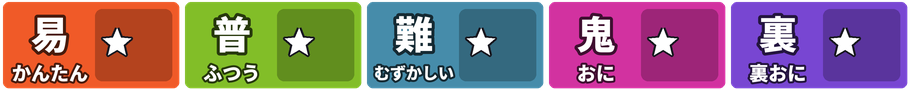
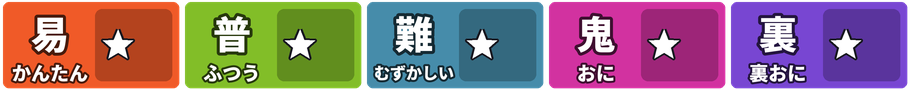
難易度の札の数字：シンプルの★と数字の高さをA-Styleに合わせる、2けたは★に重ならないように収める
Claude-Session: https://claude.ai/code/session_014XFWkjY2fybAhQzTK4VMfc

diff --git a/TakeTaikoSimulator/Scenes/SongSelect/SongSelectScene.cs b/TakeTaikoSimulator/Scenes/SongSelect/SongSelectScene.cs
@@ -2013,7 +2013,13 @@ namespace TakeTaikoSimulator.Scenes
             if (MenuSkin.Part(Tn + "Difficulty_Panel.png", new Rectangle(3 + 182 * (int)type, 2, 176, 86), chip, MenuSkin.White(alpha)))
             {
                 float k = chip.Height / 86f;
-                if (!MenuSkin.Digits(Tn + "Difficulty_Level_Number.png", level.ToString(), chip.X + ChipNumberX * k, chip.Y + ChipNumberY * k, ChipNumberAdvance, k, MenuSkin.White(alpha)))
+                // 2けた(★10 など)は、そのままだと ★ と札の右はしにはみ出すので、少し小さく・つめて ★ の右の箱に収める
+                //   11/26 たけらい「シンプルスキンとa-styleの難易度の数字の座標ずれてる」(★ の右は 133、箱の右は 166)
+                string digits = level.ToString();
+                bool two = digits.Length >= 2;
+                float nk = two ? k * ChipTwoDigitScale : k;
+                float nx = two ? ChipTwoDigitX : ChipNumberX;
+                if (!MenuSkin.Digits(Tn + "Difficulty_Level_Number.png", digits, chip.X + nx * k, chip.Y + ChipNumberY * k, two ? ChipTwoDigitAdvance : ChipNumberAdvance, nk, MenuSkin.White(alpha)))
                     Outlined(level.ToString(), new Rectangle(chip.X + 128, chip.Y + 20, 44, 46), 36, Fade(Color.White, alpha), Fade(InkColor, alpha));
                 return;
             }
@@ -2295,6 +2301,8 @@ namespace TakeTaikoSimulator.Scenes
         //   11/11：録画(2026-11-11 23-44-20.mp4 の 10秒)に A-Style の札と数字を 0.5px ずつずらして重ねて、いちばん合う所にした
         //   (前は 146, 43。右へ 1.5px・下へ 0.5px ずれていた)
         private const float ChipNumberX = 147.5f, ChipNumberY = 43.5f, ChipNumberAdvance = 24;
+        // 2けたのとき：大きさ 0.8 倍・字の間 19(0.8 倍する前)・2文字のまんなか 150。推測なんだけど、TaikøNauts も ★ に重ならないように収めている
+        private const float ChipTwoDigitScale = 0.8f, ChipTwoDigitAdvance = 19f, ChipTwoDigitX = 150f;
         // 難易度のカード(196×354)：★の右に数字、下の点々の列に★
         //   ★は 64〜91・250〜277(真ん中 77.5,263.5)、点々は 30,45,…,165 の10個・高さ 293(画像を測った)
         //   11/11：録画(同じ動画の 80秒)にカード・数字・★を 0.5px ずつずらして重ねて、いちばん合う所にした

diff --git a/tools/skin-gen/menu.py b/tools/skin-gen/menu.py
@@ -194,14 +194,16 @@ def tn_chips():
         c.rect(x + 92, y + 7, x + W - 7, y + H - 7, fill=bright(col, -0.25) + (255,), radius=7)
         c.text(x + 47, y + 30, mark, 38, WHITE, stroke=3, stroke_fill=ink)
         fit_text(c, x + 47, y + 70, name, 19, 84, WHITE, stroke=2, stroke_fill=ink)
-        star_poly(c, x + 114, y + 41, 15, WHITE + (255,), INK2 + (255,), 2)
+        # ★は A-Style と同じ場所・大きさ(白い所が札の中の 100〜129 × 28〜55)。数字はプログラムが ★ の右に書く
+        star_poly(c, x + 115, y + 43.5, 16, WHITE + (255,), INK2 + (255,), 2)
     c.save(S + 'Difficulty_Panel.png')
 
 def number_sheet(rel, cw, ch, size, stroke):
     """0〜9 を横に10個(白い数字に黒いふち)"""
     c = Canvas(cw * 10, ch)
     for n in range(10):
-        fit_text(c, cw * n + cw / 2, ch / 2, str(n), size, cw - 2, WHITE, stroke=stroke, stroke_fill=INK2)
+        # 字は少し下に寄るので、上へ 2px（A-Style の数字と同じく、字の上下のまんなかが画像のまんなかに来る）
+        fit_text(c, cw * n + cw / 2, ch / 2 - 2, str(n), size, cw - 2, WHITE, stroke=stroke, stroke_fill=INK2)
     c.save(rel)
 
 def tn_cards():

diff --git a/TakeTaikoSimulator/Updates/UpdatePackage.cs b/TakeTaikoSimulator/Updates/UpdatePackage.cs
@@ -19,7 +19,7 @@ internal static class UpdatePackage
     // Simple スキンの版。スキンの絵を変えたら1つ上げて、Skins/TaikoSim-Simple/skin-revision.txt も同じ数字にする
     //   起動したとき、手元のスキンの版がこれより古ければ「スキンを更新しますか？」を出す（StartupUpdate.OfferSimpleSkin）
     //   2：11/26 王冠・エントリーの板を足した
-    internal const int SimpleSkinRevision = 2;
+    internal const int SimpleSkinRevision = 3;
     internal const string SkinRevisionFile = "skin-revision.txt";
 
     internal static Version ReadVersion(string path)
